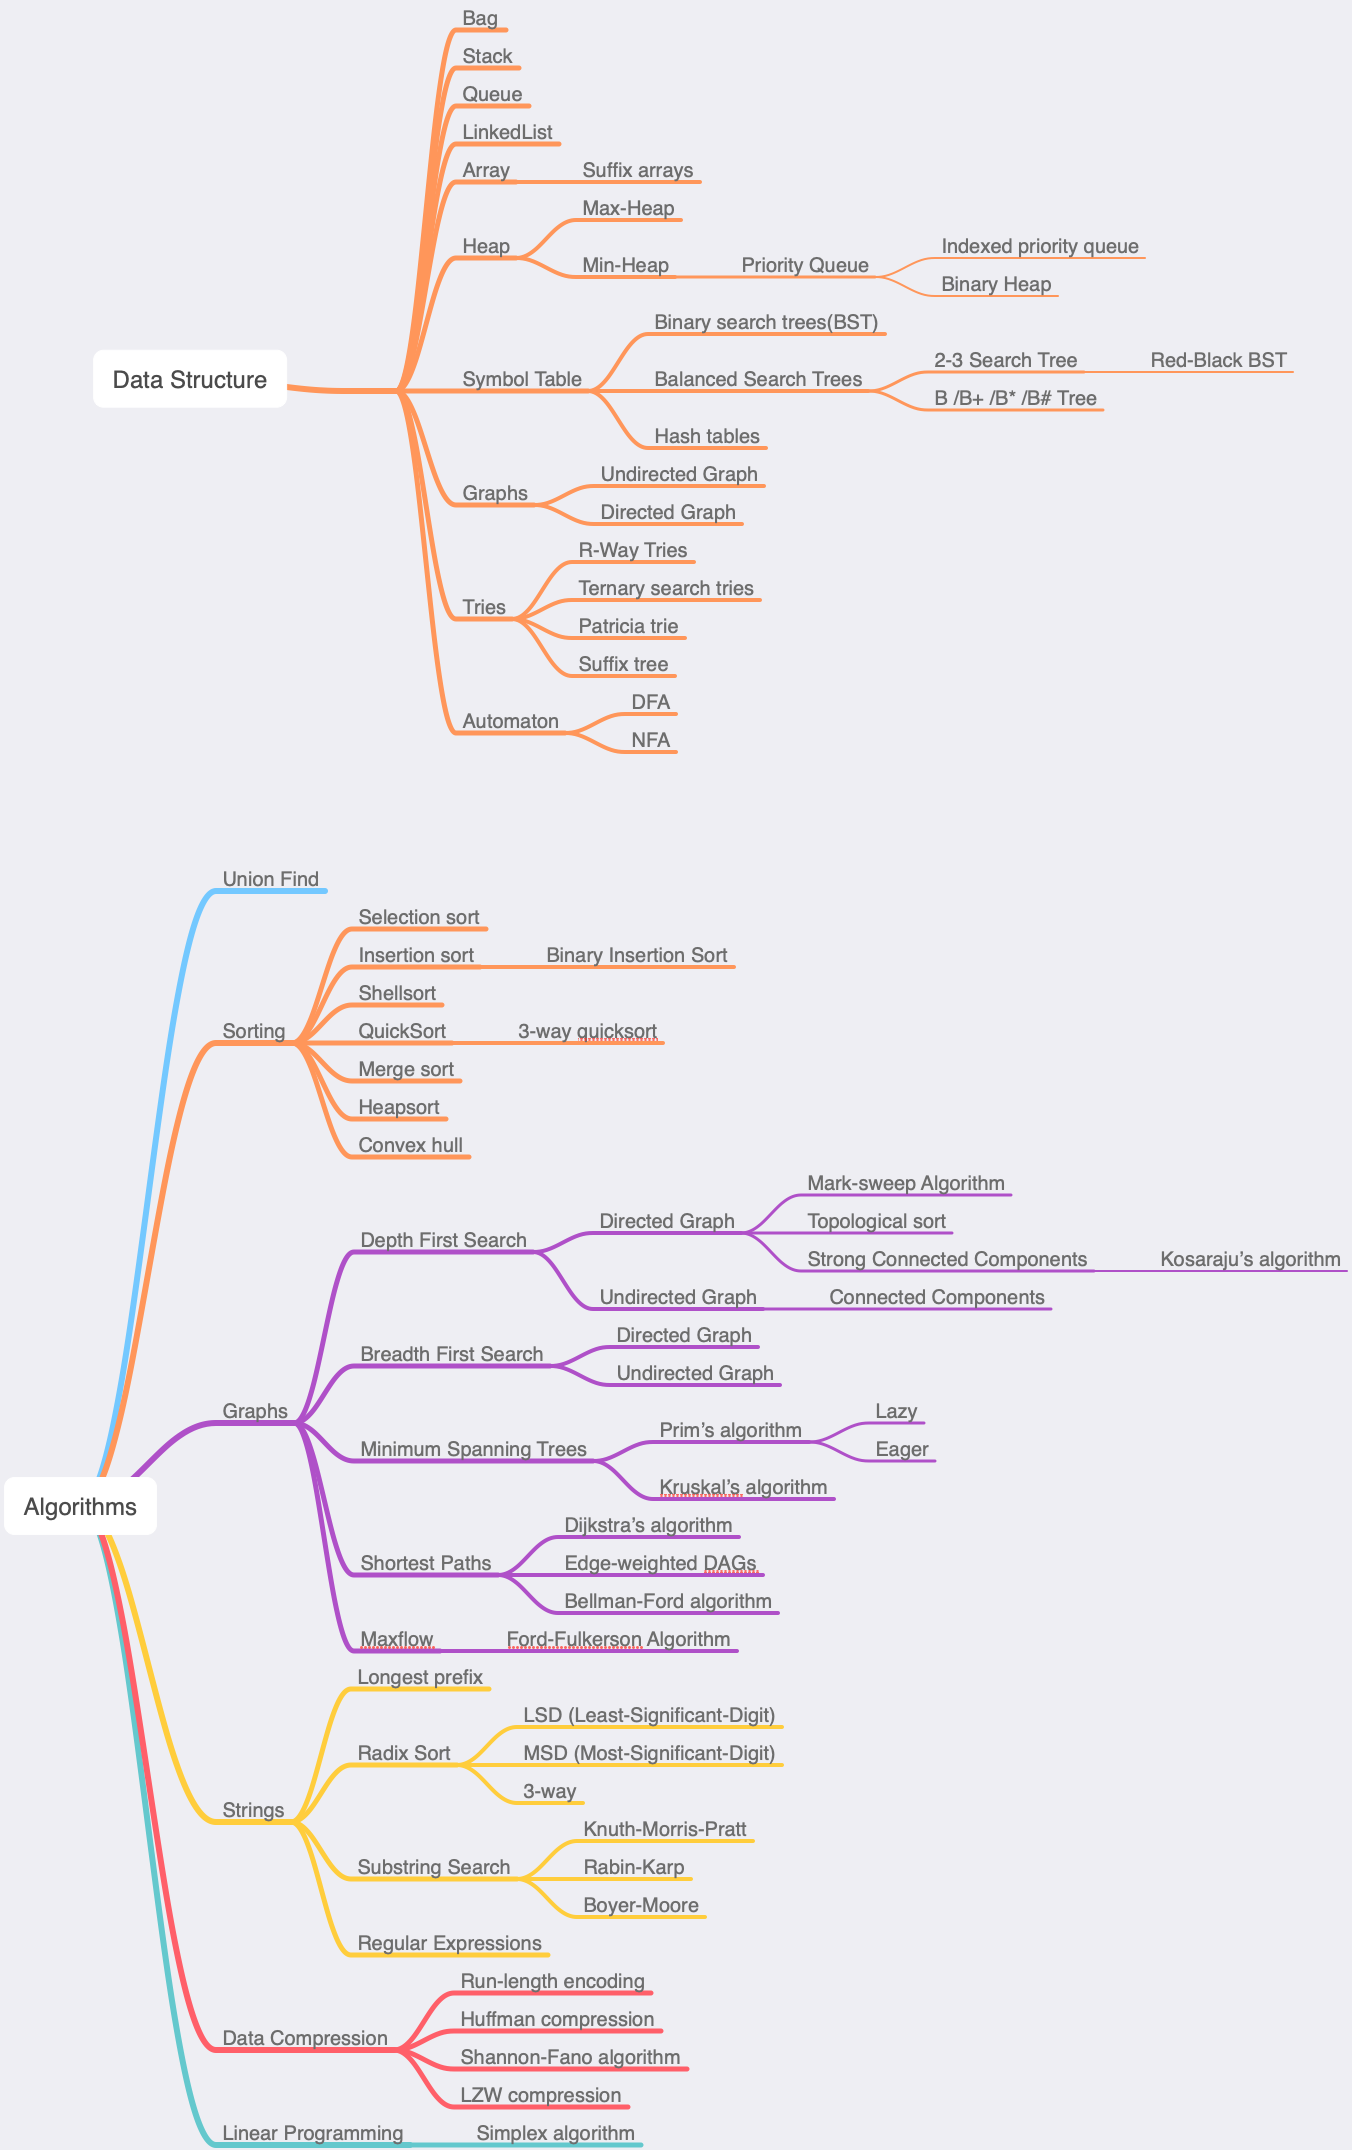
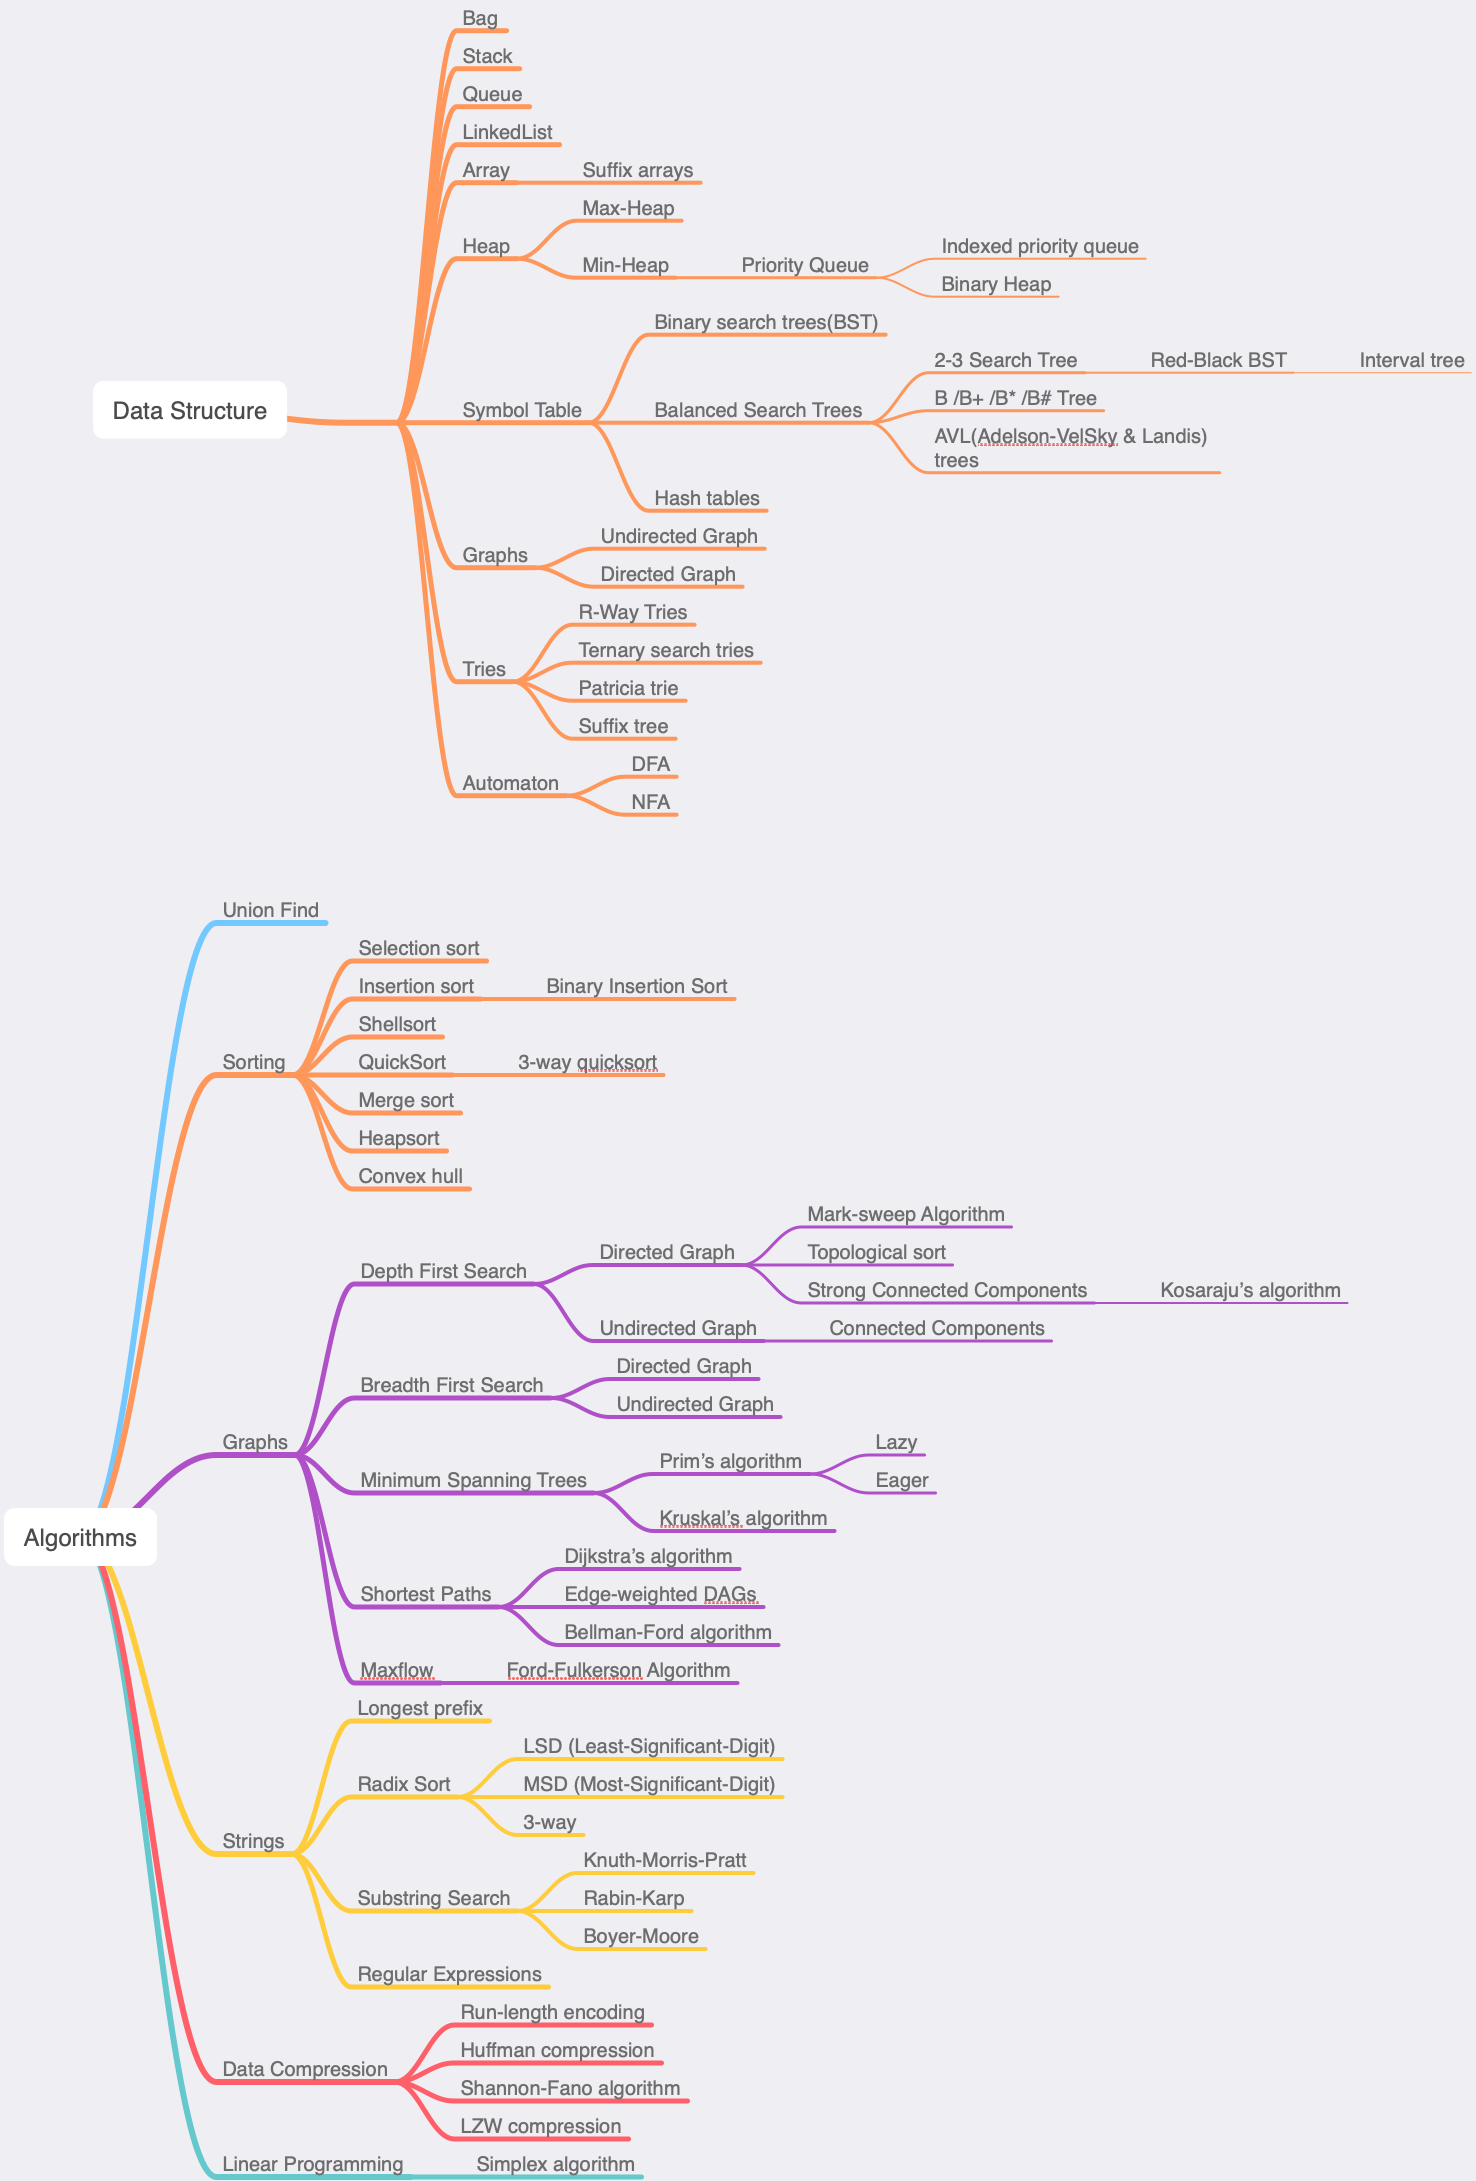
add AVL Tree

diff --git a/Algorithms in Java/AVLTreeST.java b/Algorithms in Java/AVLTreeST.java
@@ -1,0 +1,113 @@
+public class AVLTreeST<Key extends Comparable<Key>, Value> {
+    // the root node
+    private Node root;
+
+    private class Node {
+        private final Key key; //the key
+        private Value val; //the associated value
+        private int height; //height of the subtree
+        private int size; //number of nodes in subtree
+        private Node left; //left subtree
+        private Node right; //right subtree
+
+        public Node(Key key, Value val, int height, int size) {
+            this.key = key;
+            this.val = val;
+            this.height = height;
+            this.size = size;
+        }
+    }
+
+
+    //get
+    public Value get(Key key) {
+        if (key == null) throw new IllegalArgumentException("argument to get() is null");
+        Node x = get(root, key);
+        if (x == null) return null;
+        return x.val;
+    }
+
+    private Node get(Node x, Key key) {
+        if (x == null) return nil;
+        int cmp = key.compareTo(x.key);
+        if (cmp < 0) return get(x.left, key);
+        else if (cmp > 0) return get(x.right, key);
+        else return x;
+    }
+
+    //put
+    public void put(Key key, Value val) {
+        if (key == null) throw new IllegalArgumentException("first argument to put() is null");
+        if (value == null) {
+            delete(key);
+            return;
+        }
+        root = put(root, key, val);
+    }
+
+    private Node put(Node x, Key key, Value val) {
+        if (x == null) return new Node(key, val, 0, 1);
+        int cmp = key.compareTo(x.key);
+        if (cmp < 0) {
+            x.left = put(x.left, key, val);
+        }
+        else if (cmp > 0) {
+            x.right = put(x.right, key, val);
+        }
+        else {
+            x.val = val;
+            return x;
+        }
+        x.size = 1 + size(x.left) + size(x.right);
+        x.height = 1 + Math.max(height(x.left), height(x.right));
+        return balance(x);
+    }
+
+    private Node balance(Node x) {
+        if (balanceFactor(x) < -1) {
+            if (balanceFactor(x.right) > 0) {
+                x.right = rotateRight(x.right);
+            }
+            x = rotateLeft(x);
+        }
+        else if (balanceFactor(x) > 1) {
+            if (balanceFactor(x.left) < 0) {
+                x.left = rotateLeft(x.left);
+            }
+            x = rotateRight(x);
+        }
+        return x;
+    }
+
+    private int balanceFactor(Node x) {
+        return height(x.left) - height(x.right);
+    }
+
+    //rotate operations
+    private Node rotateRight(Node x) {
+        Node y = x.left;
+        x.left = y.right;
+        y.right = x;
+        y.size = x.size;
+        x.size = 1 + size(x.left) + size(x.right);
+        x.height = 1 + Math.max(height(x.left), height(x.right));
+        y.height = 1 + Math.max(height(y.left), height(y.right));
+        return y;
+    }
+
+    private Node rotateLeft(Node x) {
+        Node y = x.right;
+        x.right = y.left;
+        y.left = x;
+        y.size = x.size;
+        x.size = 1 + size(x.left) + size(x.right);
+        x.height = 1 + Math.max(height(x.left), height(x.right));
+        y.height = 1 + Math.max(height(y.left), height(y.right));
+    }
+
+    //helper methods
+    private int height(Node x) {
+        if (x == null) return -1;
+        return x.height;
+    }
+}
